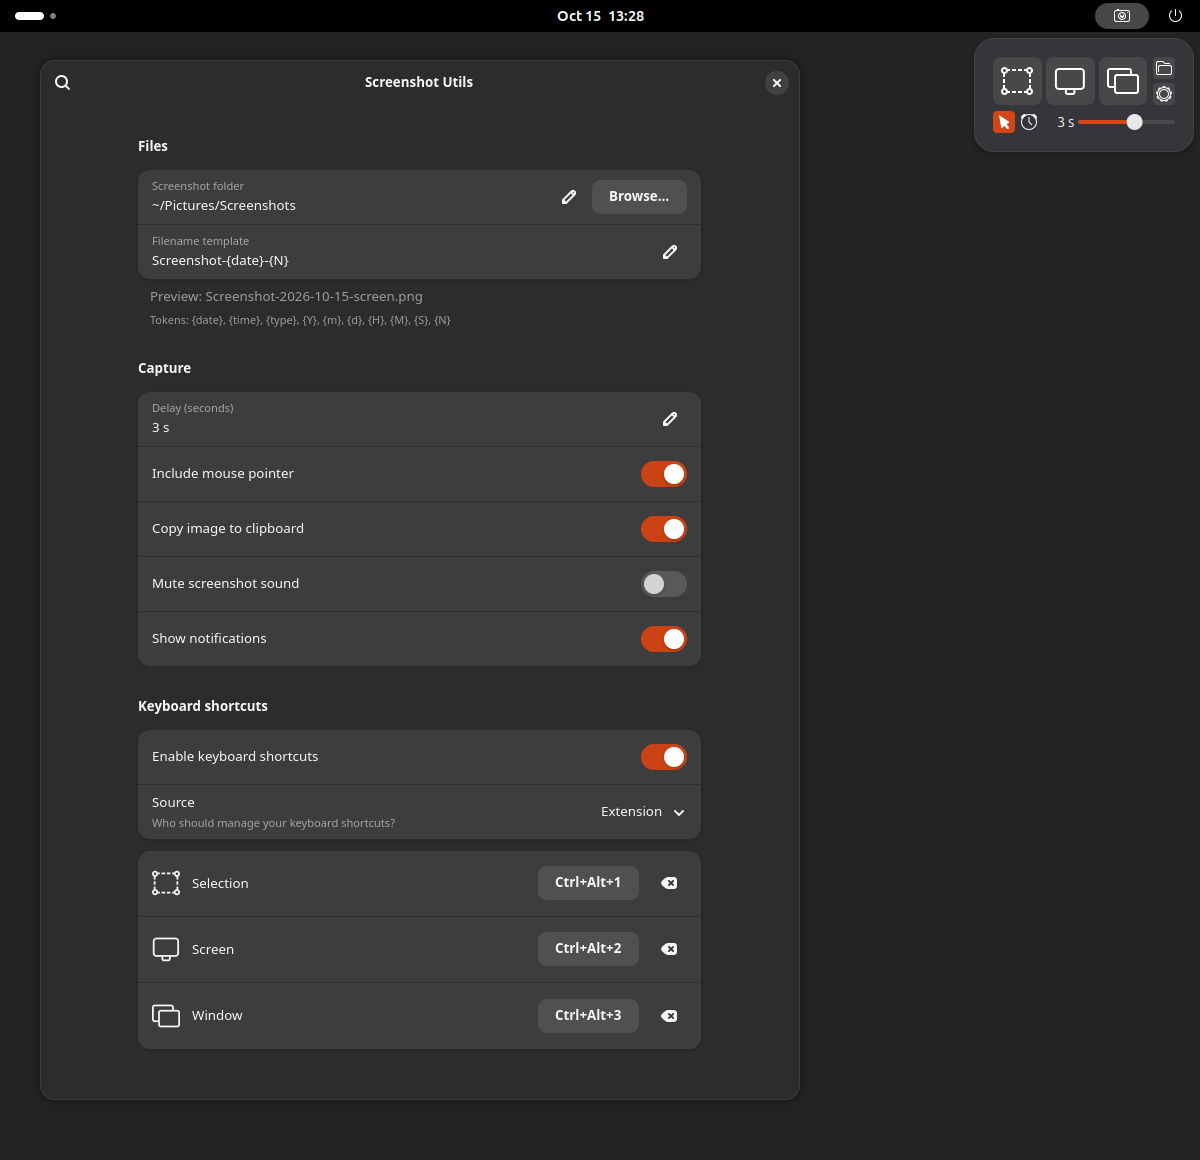
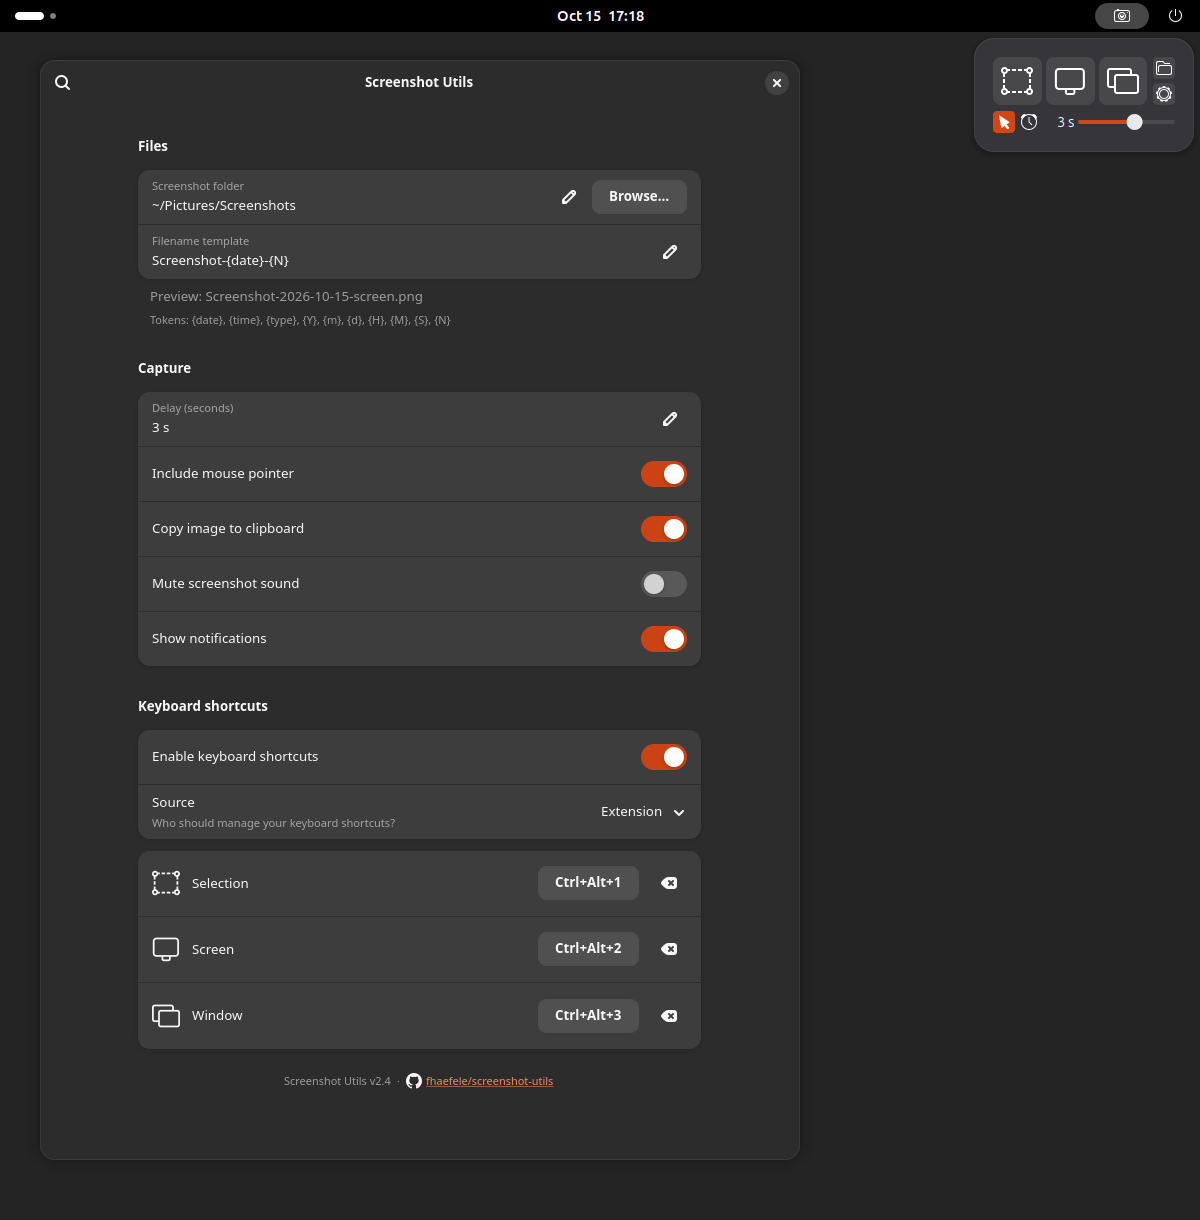
Refresh overview and documentation for 2.4

diff --git a/README.md b/README.md
@@ -38,7 +38,7 @@ gnome-extensions install --force screenshot-utils-modern.shell-extension.zip
 
 After installing or updating, log out and back in, then enable Screenshot Utils in Extensions.
 
-Preferences shows the installed version and checks GitHub for compatible releases at most once every 24 hours when opened. A latest-version link opens the newer release page; use the command above to update.
+Preferences shows the installed version and checks GitHub for updates when opened, at most once every 24 hours. A `latest: v<version>` link appears only for a newer compatible release and opens its GitHub page. Rerun the installer to update.
 
 ## Keyboard shortcuts
 
@@ -67,4 +67,4 @@ Packages are in `dist/legacy/` and `dist/modern/`. Shell tests use isolated sett
 
 ## License
 
-[GPL-3.0-or-later](LICENSE). Inspired by [Screenshot Tool](https://github.com/OttoAllmendinger/gnome-shell-screenshot) and [No Screenshot Box](https://github.com/abdallah-alkanani/no-screenshot-box).
+[GPL-3.0-or-later](LICENSE). GitHub mark from [Octicons](https://github.com/primer/octicons), MIT. Inspired by [Screenshot Tool](https://github.com/OttoAllmendinger/gnome-shell-screenshot) and [No Screenshot Box](https://github.com/abdallah-alkanani/no-screenshot-box).
